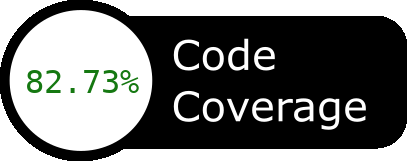
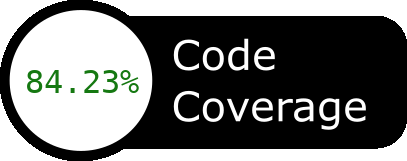
Order by test

Changed region(s): [[0.2064, 0.4348, 0.2654, 0.5901], [0.0885, 0.4348, 0.1474, 0.5901]]

diff --git a/tests/Selector/TableSelectorTest.php b/tests/Selector/TableSelectorTest.php
@@ -19,6 +19,7 @@ use Small\SwooleDb\Selector\Bean\ConditionElement;
 use Small\SwooleDb\Selector\Bean\OrderByField;
 use Small\SwooleDb\Selector\Enum\ConditionElementType;
 use Small\SwooleDb\Selector\Enum\ConditionOperator;
+use Small\SwooleDb\Selector\Enum\OrderBySens;
 use Small\SwooleDb\Selector\TableSelector;
 use function _PHPStan_156ee64ba\React\Promise\Timer\timeout;
 use function _PHPStan_cc8d35ffb\Symfony\Component\String\b;
@@ -28,7 +29,7 @@ class TableSelectorTest extends TestCase
 
     public function testExecuteSingleTable(): void
     {
-echo 'signle';
+
         $table = TableRegistry::getInstance()->createTable('testSelect', 5);
         $table->addColumn(new Column('name', ColumnType::string, 255));
         $table->addColumn(new Column('price', ColumnType::float));
@@ -76,7 +77,6 @@ echo 'signle';
                 new ConditionElement(ConditionElementType::const, 15)
             ));
 
-        $t = microtime(true);
         $selector->addOrderBy(
             new OrderByField(
                 'testSelectPaginated',
@@ -102,6 +102,60 @@ echo 'signle';
             $page++;
 
         }
+
+    }
+
+    public function testExecuteOrderByTwoTables(): void
+    {
+
+        $table = TableRegistry::getInstance()->createTable('testSelectOrderBy1', 3);
+        $table->addColumn(new Column('name', ColumnType::string, 255));
+        $table->addColumn(new Column('price', ColumnType::int, 8));
+        $table->create();
+
+        $table2 = TableRegistry::getInstance()->createTable('testSelectOrderBy2', 4);
+        $table2->addColumn(new Column('name', ColumnType::string, 255));
+        $table2->addColumn(new Column('price', ColumnType::int, 8));
+        $table2->addColumn(new Column('managerKey', ColumnType::string, 8));
+
+        $table2->create();
+
+        $table2->addForeignKey('manager', 'testSelectOrderBy1', 'managerKey');
+
+        $table->set(0, ['name' => 'john', 'price' => 12]);
+        $table->set(1, ['name' => 'john2', 'price' => 11]);
+        $table->set(2, ['name' => 'john3', 'price' => 10]);
+
+        $table2->set(0, ['name' => 'doe', 'price' => 13, 'managerKey' => '1']);
+        $table2->set(1, ['name' => 'doe2', 'price' => 12, 'managerKey' => '1']);
+        $table2->set(2, ['name' => 'doe3', 'price' => 10, 'managerKey' => '0']);
+        $table2->set(3, ['name' => 'doe4', 'price' => 10, 'managerKey' => '2']);
+
+        $records = (new TableSelector('testSelectOrderBy2'))
+            ->join('testSelectOrderBy2', 'manager')
+            ->addOrderBy(
+                new OrderByField(
+                    'testSelectOrderBy2',
+                    'price',
+                    OrderBySens::descending,
+                )
+            )->addOrderBy(
+                new OrderByField(
+                    'manager',
+                    'price',
+                )
+            )->execute()
+        ;
+
+        self::assertCount(4, $records);
+        self::assertEquals('john2', $records[0]['manager']->getValue('name'));
+        self::assertEquals('doe', $records[0]['testSelectOrderBy2']->getValue('name'));
+        self::assertEquals('john2', $records[1]['manager']->getValue('name'));
+        self::assertEquals('doe2', $records[1]['testSelectOrderBy2']->getValue('name'));
+        self::assertEquals('john3', $records[2]['manager']->getValue('name'));
+        self::assertEquals('doe4', $records[2]['testSelectOrderBy2']->getValue('name'));
+        self::assertEquals('john', $records[3]['manager']->getValue('name'));
+        self::assertEquals('doe3', $records[3]['testSelectOrderBy2']->getValue('name'));
 
     }
 

diff --git a/src/Selector/TableSelector.php b/src/Selector/TableSelector.php
@@ -284,7 +284,7 @@ class TableSelector
     {
 
         if ($alias === null) {
-            $alias = $from;
+            $alias = $foreignKeyName;
         }
 
         if (array_key_exists($alias, $this->joins)) {
@@ -359,7 +359,6 @@ class TableSelector
         }
 
         if ($this->orderBy->count() > 0) {
-            echo '1';
             $populatedRecords->orderBy($this->orderBy);
         }
 
